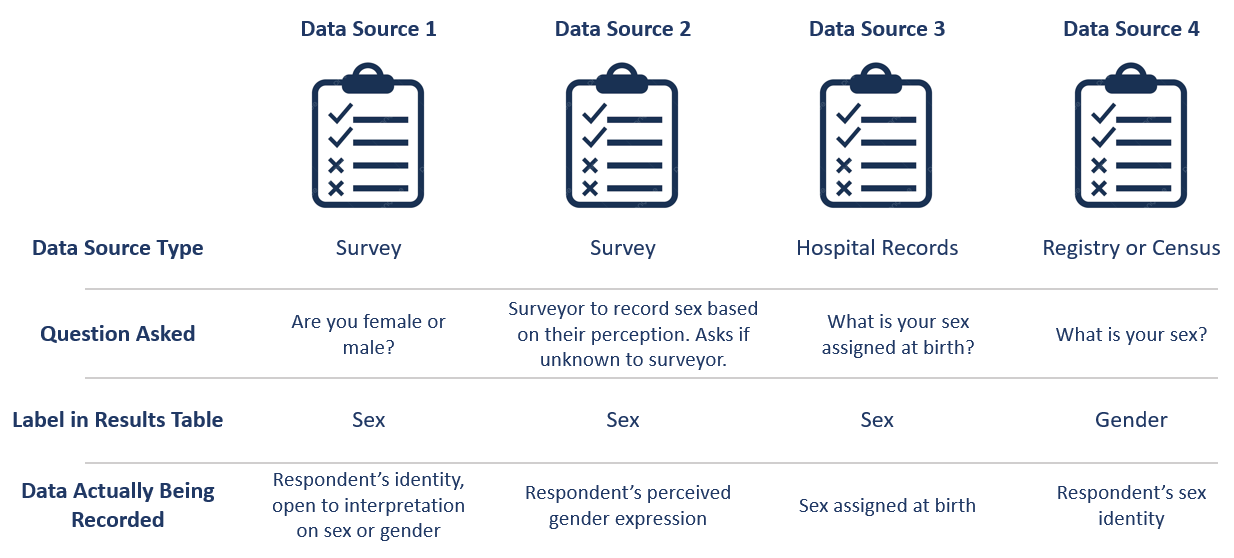
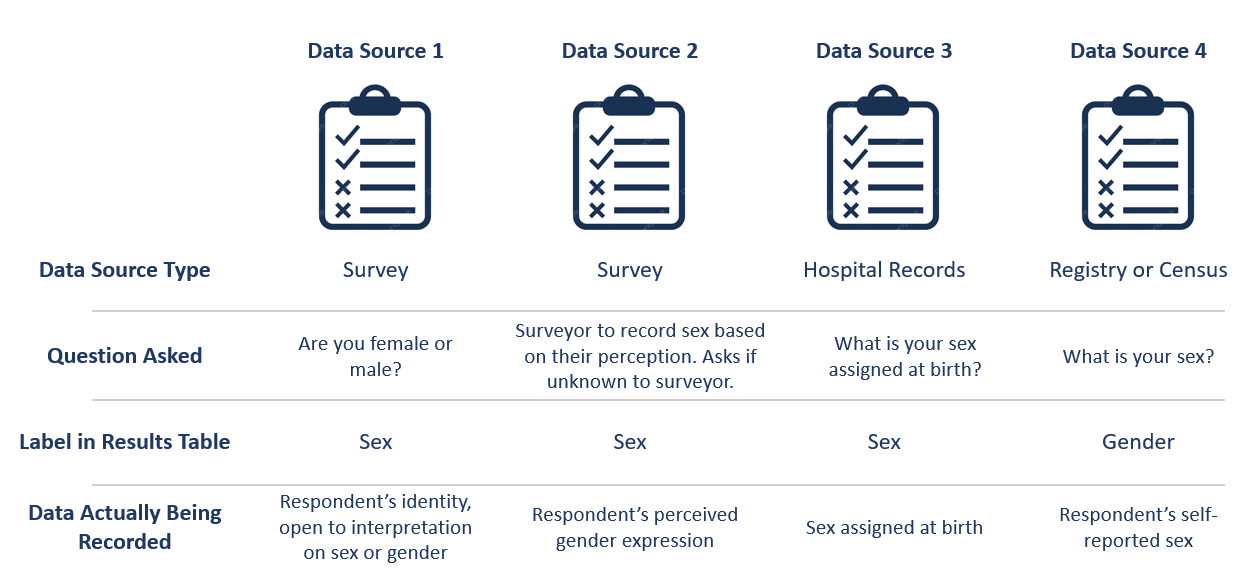
Changing sex identity to self-reported sex in BLISS guide

diff --git a/docs/source/model_design/general_reference_material/bliss/index.rst b/docs/source/model_design/general_reference_material/bliss/index.rst
@@ -528,7 +528,7 @@ These methods contain a few limitations:
 
 - Sex assigned at birth is used to create the population. Intersex people are not considered here and the full population is assigned to either male or female. 
 - An implicit assumption of creating a population based on sex assigned at birth and then aging it up is that no one changes sex/gender during their lifetime. We know this to be untrue. 
-- Additionally, different data sources track different data - anatomy at death might be different than a held sex identity. 
+- Additionally, different data sources track different data - anatomy at death might be different from a person's self-reported sex.
 - More broadly, GBD does not attempt to include any category other than male or female. 
 - Since there are so many different input data sources and they vary by country, it would be very difficult for GBD to have anything other than "undifferentiated sex/gender" in their final results. However, GBD still uses the language "sex" for its variable. 
 
@@ -711,7 +711,7 @@ undifferentiated sex/gender. This is due to ambiguity between sex and gender in
 the question asked.
 
 The latter two data sources more clearly reflect sex, although one is sex assigned
-at birth and the other is sex identity. Therefore if you included only data sources
+at birth and the other is self-reported sex. Therefore if you included only data sources
 3 and 4, you might label your result as sex.
 
 .. todo::
